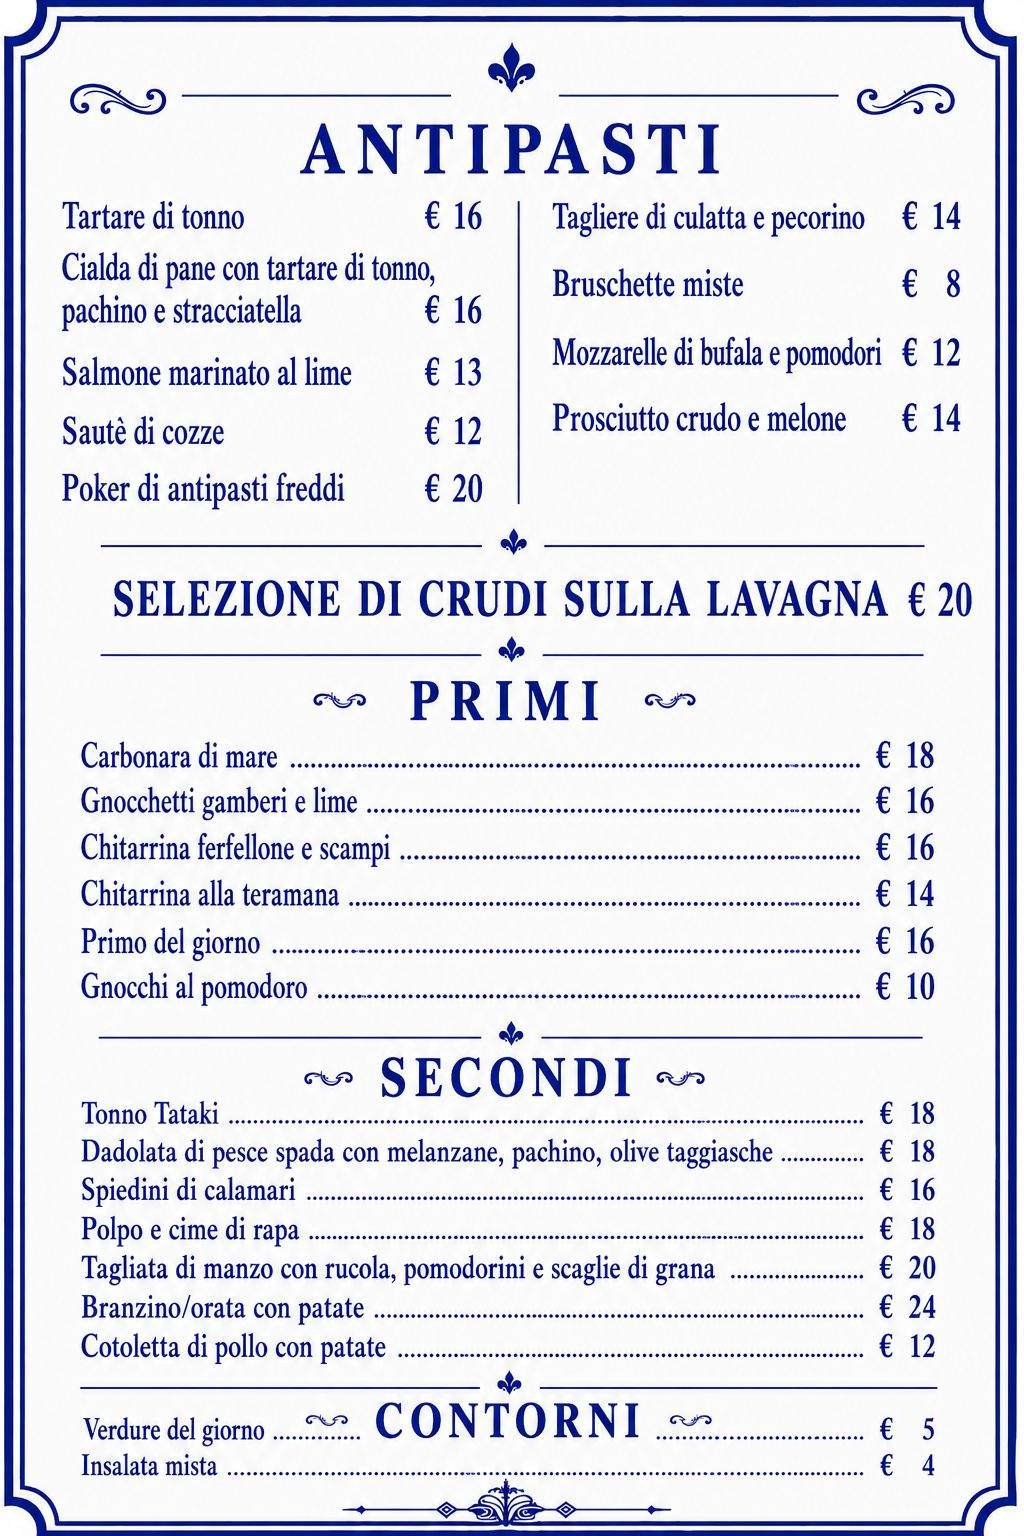
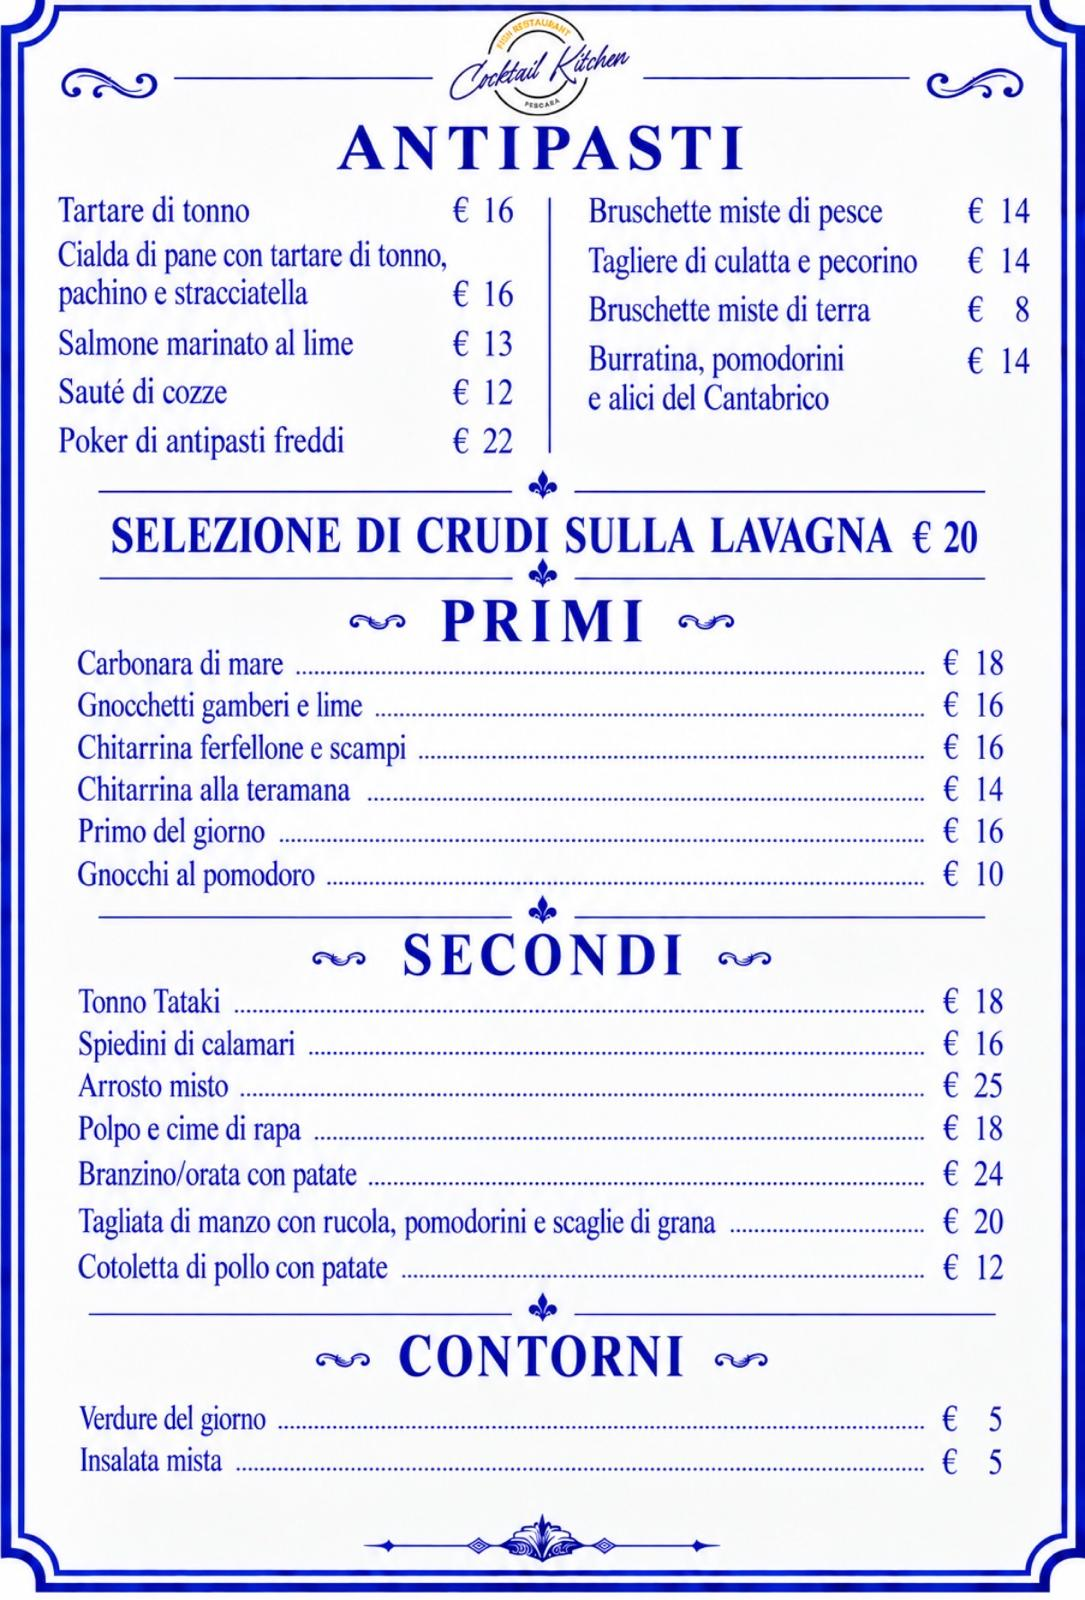
Aggiungi Menù Pranzo, aggiorna Menu alla Carta e inserisci nuova immagine crudi nel carosello (WebP ottimizzati)

Changed region(s): [[0.0, 0.0, 1.0, 1.0]]

diff --git a/index.html b/index.html
@@ -75,6 +75,7 @@
               <img src="assets/images/carosello/tataki-di-tonno-al-sesamo.webp" alt="Tataki di tonno in crosta di sesamo con salse gourmet">
               <img src="assets/images/carosello/tagliolini-agli-scampi.webp" alt="Tagliolini freschi agli scampi e crostacei">
               <img src="assets/images/carosello/antipasto-imperiale-di-mare.webp" alt="Antipasto imperiale di frutti di mare con scampi e fiori eduli">
+              <img src="assets/images/carosello/selezione-crudi-di-mare.webp" alt="Selezione di crudi di mare con scampi, gamberi rossi e tartare">
               <img src="assets/images/carosello/chitarra-allo-scampo.webp" alt="Spaghetti alla chitarra allo scampo reale">
               <img src="assets/images/carosello/salmone-marinato-con-lime.webp" alt="Salmone marinato con lime e fiori eduli">
               <img src="assets/images/carosello/carbonara-di-mare.webp" alt="Pasta alla carbonara di mare con guanciale croccante">
@@ -267,6 +268,12 @@
           <button class="btn-secondary full-width menu-accordion-btn">Menu alla Carta <span class="toggle-icon">▼</span></button>
           <div class="menu-accordion-content">
             <img src="assets/images/menu-alla-carta.webp" alt="Menu alla Carta" class="menu-preview-img" loading="lazy">
+          </div>
+        </div>
+        <div class="menu-accordion-item">
+          <button class="btn-secondary full-width menu-accordion-btn">Menù Pranzo <span class="toggle-icon">▼</span></button>
+          <div class="menu-accordion-content">
+            <img src="assets/images/menu-pranzo.webp" alt="Menù Pranzo" class="menu-preview-img" loading="lazy">
           </div>
         </div>
         <div class="menu-accordion-item">
